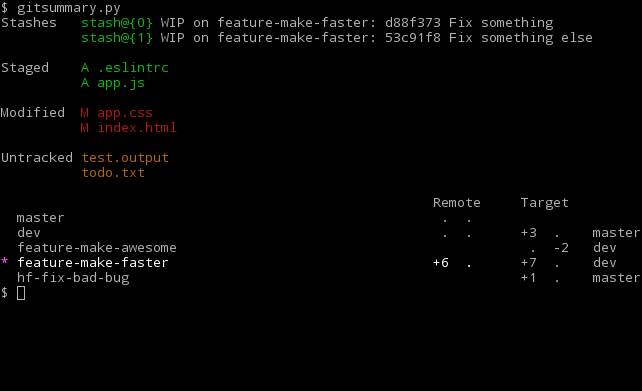
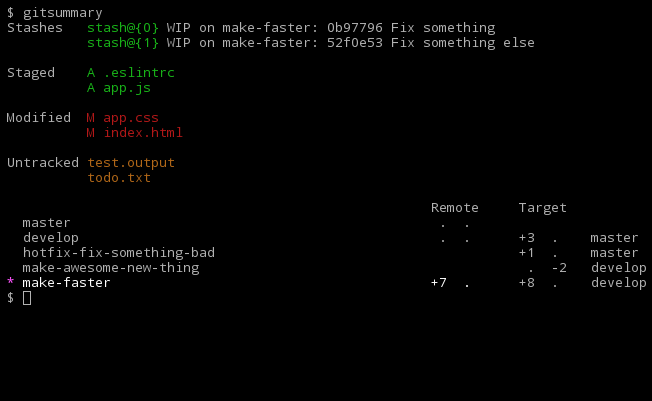
Update README and default output image

diff --git a/gitsummary.py b/gitsummary.py
@@ -1690,7 +1690,7 @@ file used to specify:
     - branch names and their corresponding targets
 
 Any line beginning with "//" (with optional preceding whitespace) is treated as
-as a comment and thus ignored.
+a comment and thus ignored.
 
 The following is a sample configuration file that matches the built-in defaults:
 

diff --git a/README.md b/README.md
@@ -9,7 +9,7 @@ A better `git status`
 All nicely formatted with color.
 
 ## Example
-![](https://raw.githubusercontent.com/glenreesor/gitsummary/master/doc/output.default.png)
+![][defaultOutput]
 
 In addition to the usual stashes and file statuses, this output is showing the
 following branch information:
@@ -17,16 +17,16 @@ following branch information:
 - `master`
     - In sync with its remote branch
     - Has no merge target
-- `dev`
+- `develop`
     - In sync with its remote branch
     - 3 commits ahead of its merge target (`master`)
-- `feature-make-awesome`
+- `make-awesome-new-thing`
     - Has no remote branch
-    - 2 commits behind its merge target (`dev`)
-- `feature-make-faster`
-    - 6 commits ahead of its remote
-    - 7 commits ahead of its merge target (`dev`)
-- `hf-fix-bad-bug`
+    - 2 commits behind its merge target (`develop`)
+- `make-faster`
+    - 7 commits ahead of its remote
+    - 8 commits ahead of its merge target (`develop`)
+- `hotfix-fix-something-bad`
     - Has no remote branch
     - 1 commit ahead of its merge target (`master`)
 
@@ -34,22 +34,24 @@ following branch information:
 A merge target is the branch that `gitsummary` is expecting a particular branch
 to be merged into.
 
-The algorithm for determining merge targets is currently hard coded, but will
-be configurable in a future version.
+For any given branch, the merge target is determined by the first regular
+expression that matches that branch:
 
-Branch Name Pattern | Merge Target | Comments
-------------------- | ------------ | --------
-master              |   [None]     |
-dev                 |   master     | No target if master does not exist
-hf*                 |   master     | No target if master does not exist. ('hf' is an abbreviation for 'hotfix')
-[everything else]   |   dev        |
+Regular Expression  | Merge Target
+------------------- | ------------
+^master$            |   [None]
+^develop$           |   master
+^hotfix-            |   master
+^release-           |   master
+[everything else]   |   develop
 
-(See below if you want to change `gitsummary` for your own branch merge targets.)
+You can specify your own merge targets in a `.gitsummaryconfig` file
+(see below).
 
 ## Usage
 ```
 Usage:
-    /gitsummary.py [--custom [options]] | --help
+    gitsummary.py [--custom [options]] | --help | --helpconfig | --version
 
 Print a summary of the current git repository's status:
     - stashes, staged files, modified files, untracked files,
@@ -57,6 +59,7 @@ Print a summary of the current git repository's status:
           - number of commits ahead/behind its target branch
           - number of commits ahead/behind its remote branch
           - the name of its target branch
+
 Flags:
     --custom [options]
         - Show only the specified sections of output
@@ -67,6 +70,9 @@ Flags:
     --help
         - Show this output
 
+    --helpconfig
+        - Show information for the gitsummary configuration file
+
     --version
         - Show current version
 ```
@@ -75,25 +81,70 @@ Flags:
 python3
 
 ## Installation
-Easy! Just copy [gitsummary.py](https://raw.githubusercontent.com/glenreesor/gitsummary/master/gitsummary.py) to a folder in your path, and you're set!
+Easy! Just copy [gitsummary.py][gitsummaryScript]
+to a folder in your path, and you're set!
 
-## Customizing Branch Merge Targets
-The logic for mapping branches to their merge targets is in
-`gitsummary.py/utilGetTargetBranch()`,
-and the corresponding tests are in `testGitsummary.py/Test_utilGetTargetBranch`.
+## Configuration File
+The gitsummary configuration file (`.gitsummaryconfig`) is a json-formatted
+file used to specify:
 
-The code is straight forward. For example, if you use `develop` instead of `dev`
-and `hotfix` instead of `hf`, the body of `utilGetTargetBrahch()` would be:
+- the order in which branches are printed
+- branch names and their corresponding targets
 
+Any line beginning with "//" (with optional preceding whitespace) is treated as
+a comment and thus ignored.
+
+The following is a sample configuration file that matches the built-in defaults:
 ```
-    if branch == 'master':
-        targetBranch = ''
-    elif branch == 'develop':
-        targetBranch = 'master' if 'master' in localBranches else ''
-    elif branch.startswith('hotfix'):
-        targetBranch = 'master' if 'master' in localBranches else ''
-    else:
-        targetBranch = 'develop' if 'develop' in localBranches else ''
+{
+    // Specify the order in which to display branches
+    //     - Branches that match the first regular expression are displayed
+    //       first (in alphabetical order), followed by branches matching
+    //       the second regular expression, and so on
+    //     - Branches not matching any of the regular expressions are
+    //       listed last (also in alphabetical order)
+    "branchOrder": [
+        "^master$",
+        "^develop$",
+        "^hotfix-",
+        "^release-"
+    ],
 
-    return targetBranch
+    // Specify the default target branch if none of the regular expressions
+    // in "branches" (see below) match. "" is a valid value.
+    "defaultTarget": "develop",
+
+    // Specify branches and their corresponding target branches
+    //     - When displaying branch information, the branch name is
+    //       matched against the "name" regular expressions below, in
+    //       successive order, until a match is made
+    //     - The "target" of the first match will be shown as the branch's
+    //       target branch
+    "branches": [
+        {
+            "name"  : "^master$",
+            "target": ""
+        },
+        {
+            "name"  :"^develop$",
+            "target": "master"
+        },
+        {
+            "name"  :"^hotfix-.*",
+            "target": "master"
+        },
+        {
+            "name"  :"^release-.*",
+            "target": "master"
+        }
+    ]
+}
 ```
+Gitsummary will look for `.gitsummaryconfig` in the current directory. If
+not found, it will look in successive parent folders all the way up to the root
+of the filesystem.
+```
+
+[defaultOutput]: https://raw.githubusercontent.com/glenreesor/gitsummary/master/doc/output.default.png
+
+[gitsummaryScript]: https://raw.githubusercontent.com/glenreesor/gitsummary/master/gitsummary.py
